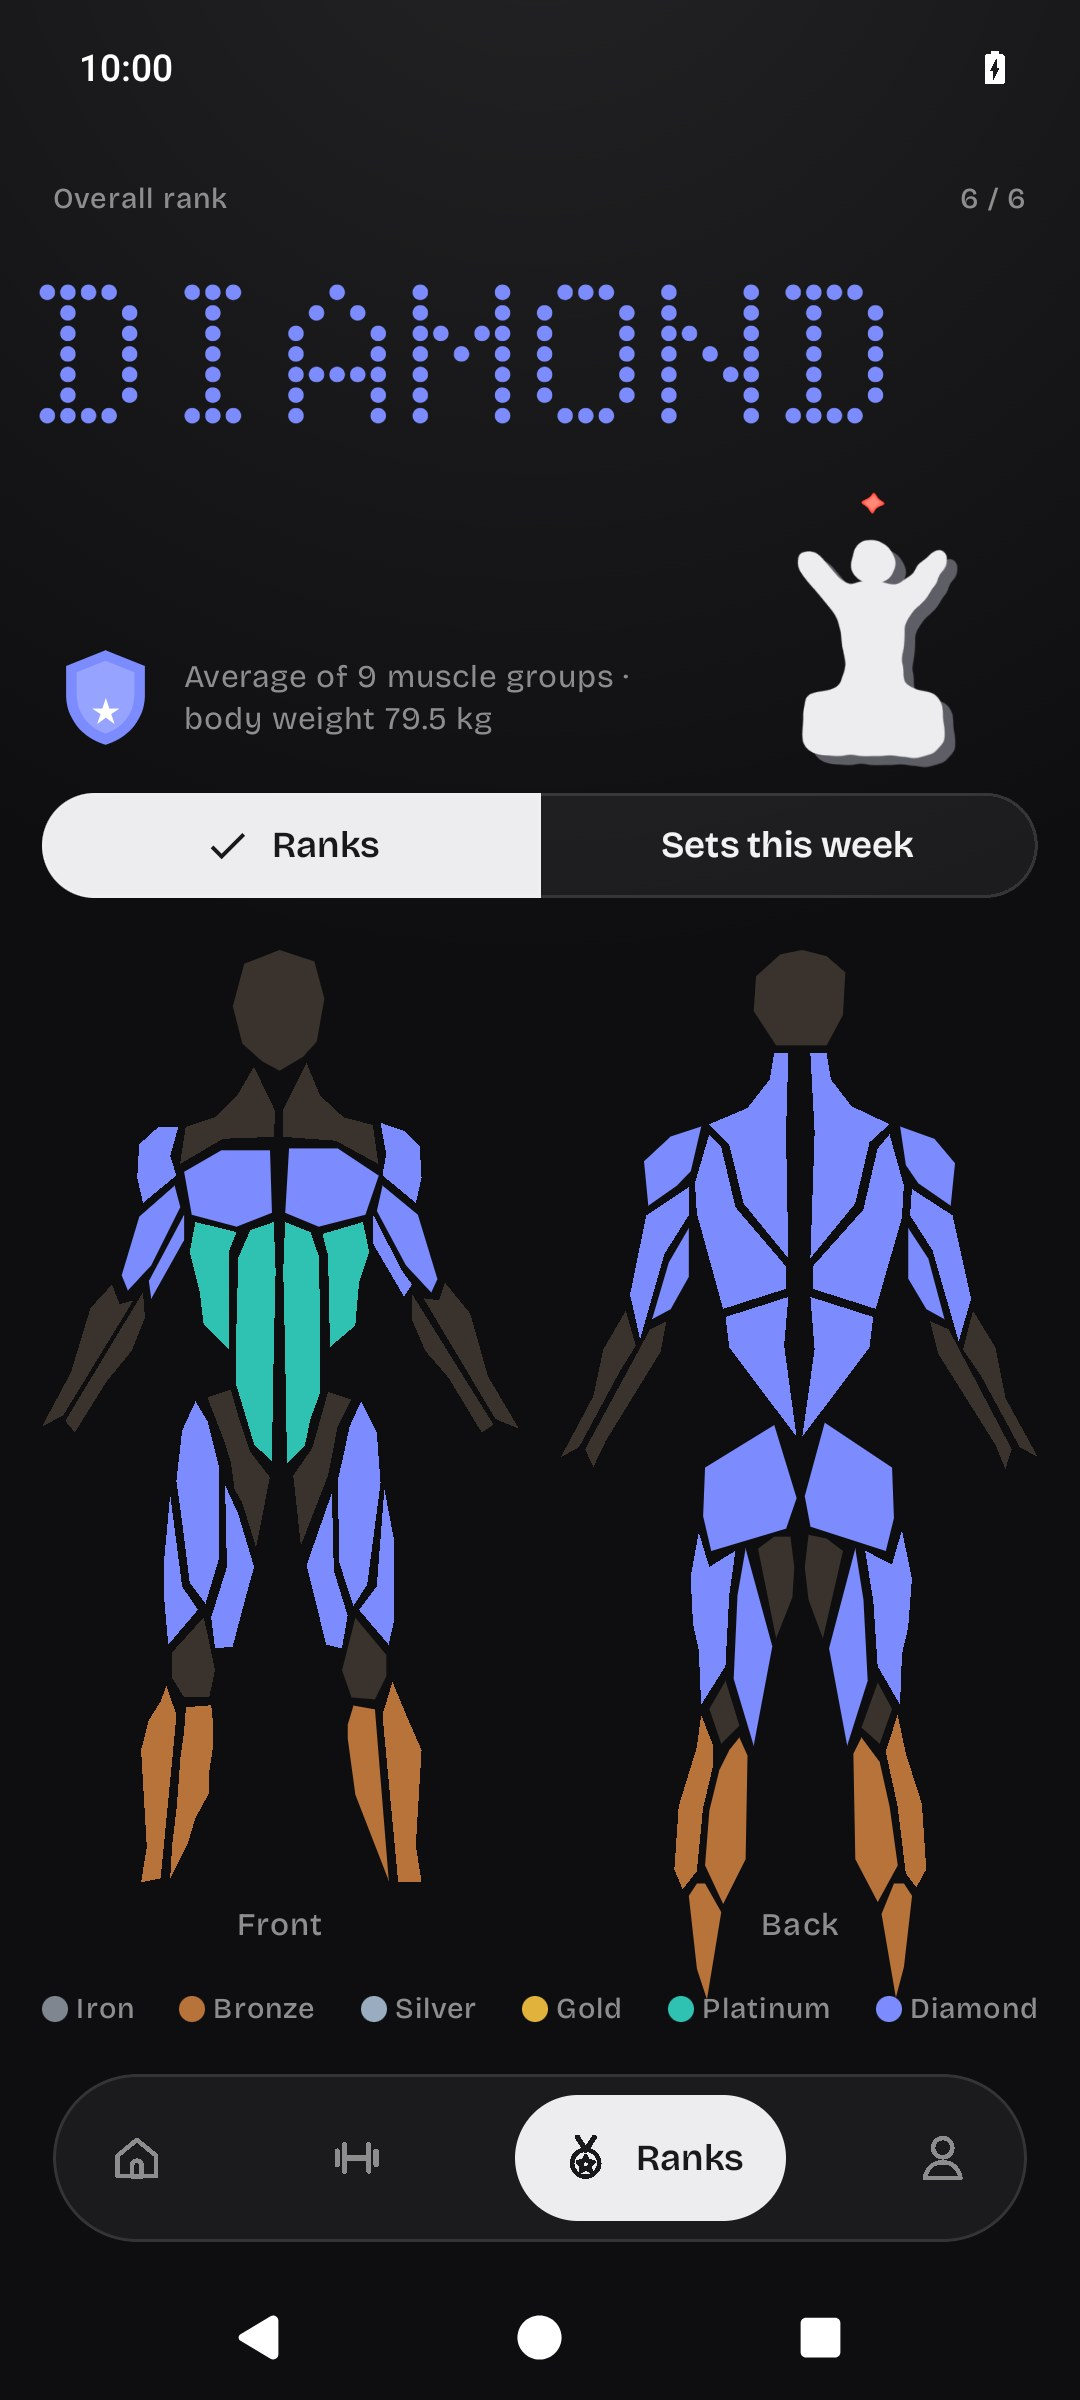
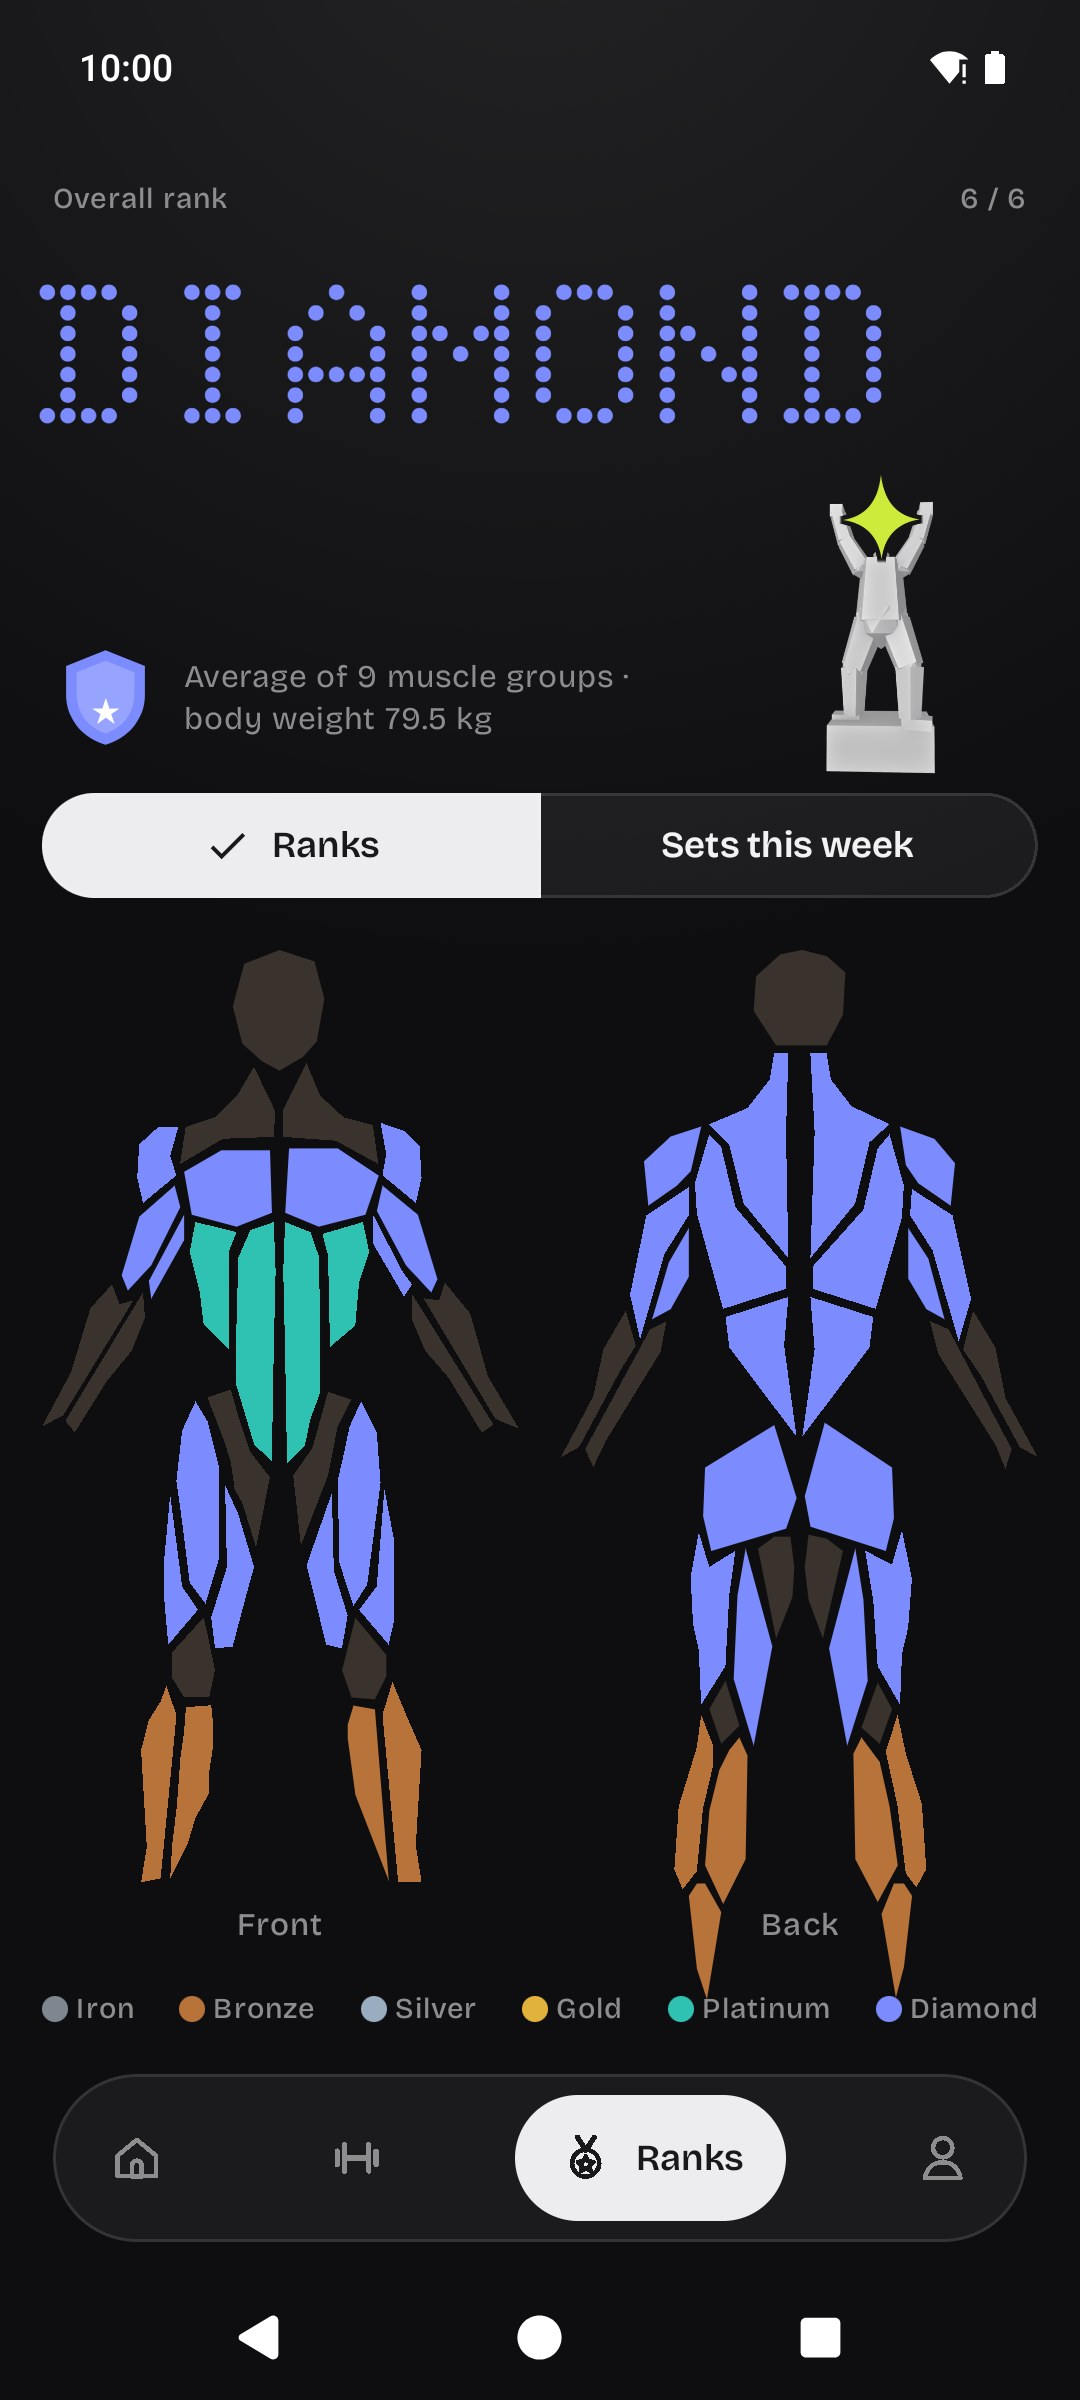
El muñeco: guía para rehacerlo; capturas de El Forzudo

diff --git a/identidad/muneco/README.md b/identidad/muneco/README.md
@@ -1,0 +1,74 @@
+# El muñeco de Fogón
+
+Un solo muñeco en bloques, hecho en Blender, que hace la acción de cada app. De aquí salen los personajes de las
+apps, los muñequitos del tutorial de El Forzudo y **los íconos de las cuatro apps**. Por qué es así y qué se
+descartó: `docs/IDENTIDAD.md` → "El muñeco".
+
+| Archivo | Qué es |
+|---------|--------|
+| `muneco.py` | El modelo y las poses (se corre dentro de Blender). |
+| `generar.py` | Corre Blender y escribe todo lo de las apps. |
+| `png/` | Los cuatro personajes armados, en grande. |
+
+Necesita Blender 5 (`blender --version`), Python 3 con Pillow y numpy. No hace falta abrir Blender: todo corre en
+segundo plano.
+
+## Rehacer todo
+
+Desde la raíz del repo:
+
+```
+python3 identidad/muneco/generar.py
+```
+
+Tarda unos 15 segundos y reescribe, para las cuatro apps:
+
+- `core/identidad/src/main/res/drawable-nodpi/personaje_<app>_cuerpo.webp`, `_cabeza.webp` y `personaje_<app>.webp`;
+- `apps/forzudo/src/main/res/drawable-nodpi/munieco_tut_<paso>_cuerpo.webp` y `_cabeza.webp`;
+- `apps/<app>/src/main/res/mipmap-*/ic_launcher_foreground.webp` y `ic_launcher_monochrome.webp` (el ícono);
+- `apps/<app>/fastlane/metadata/android/en-US/images/icon.png` (el ícono de la tienda);
+- `identidad/muneco/png/<personaje>.png`.
+
+Después: compilar, probar en el emulador (tutorial en Grafito y en Claro, el ícono en el cajón de apps), rehacer
+las capturas de la tienda que muestren al personaje (ver la `GUIA.md` de cada app) y publicar las apps.
+
+## Ver una pose sin tocar las apps
+
+```
+blender -b -P identidad/muneco/muneco.py -- <carpeta> la-cucha el-cajon
+```
+
+Deja en `<carpeta>` `<nombre>-luz.png` (el modelo con luz, para ver las caras), `<nombre>-cuerpo.png` y
+`<nombre>-cabeza.png`. Sin nombres, hace todos. Nombres: `el-forzudo`, `el-ahorrador`, `la-cucha`, `el-cajon`,
+`tut-hola`, `tut-anota`, `tut-racha`, `tut-rangos`, `tut-datos`. Así se arman las propuestas para Angel antes de
+cambiar nada en las apps.
+
+## Cambiar algo
+
+Todo está en `muneco.py`:
+
+- **Las proporciones** (igual para todos): `HUESOS` (largo y grosor al empezar y al terminar de cada hueso),
+  `HOMBRO`, `CADERA`, `CABEZA` (tamaño de la estrella) y `CARAS` (caras de cada prisma: 5).
+- **Una pose:** cada personaje es una función (`el_forzudo`, `la_cucha`…) que llama a `M.armar({...})` con hacia
+  dónde apunta cada hueso: `espalda`, `brazo_i`/`brazo_d`, `antebrazo_…`, `muslo_…`, `canilla_…` y `pie_…`, como
+  vectores (x a la derecha, y hacia el fondo, z arriba). `"adelante": {"d": 0.12}` acerca ese lado a la cámara.
+  **Nunca se agranda una pierna en el modelo:** lo que se vea más grande es por estar más cerca de la cámara.
+- **Los objetos** (barra, moneda, cuchara, gorro, disco, cuesta) van en la misma función, después de `armar`,
+  con las piezas facetadas `prisma`, `bloque`, `gema` y `disco`, ubicados desde `M.manos`, `M.pies` y `M.cabeza`.
+  `restar` hace huecos (la chispa calada de la moneda, el hueco del disco).
+- **La cámara:** al final de la parte "Escena" (`cam.data.lens` = 20 mm, cerca y un poco abajo).
+- **Una app nueva:** una función con su acción en `muneco.py` y su entrada en `ACCIONES` y `COLOR`; en
+  `generar.py`, en `NOMBRES`, `APP`, `COLOR` y `CABEZA_ICONO`; en la app, `@color/icono_fondo` y el personaje en
+  `core/identidad` (`CAPAS` en `Componentes.kt`, `CAPAS_…` en `Widget.kt`).
+
+En `generar.py`: los colores de la cabeza (`COLOR` en la app, `CABEZA_ICONO` en el ícono: la del Forzudo es oliva
+porque el lima no se ve sobre blanco), el fondo del ícono (`FONDO_ICONO`, blanco) y el tamaño en la zona segura
+(64 de 108 dp).
+
+## Si Blender no arranca
+
+El 25-10-2026 una actualización de Arch dejó `opensubdiv` y `usd` pidiendo `libcudart.so.13` sin instalar CUDA, y
+Blender no abría. Se arregló volviendo a las versiones anteriores de la caché de pacman (`opensubdiv`, `usd`,
+`blender` y `draco`). Si vuelve a pasar: ver qué librería falta (`blender --version`), buscar en
+`/var/cache/pacman/pkg/` la versión de antes y comprobar con `readelf -d` que no la pida, antes de proponerle a
+Angel el `pkexec pacman -U …`. No usar librerías bajadas de otros lados (PyPI y similares).

diff --git a/docs/IDENTIDAD.md b/docs/IDENTIDAD.md
@@ -95,7 +95,7 @@ Angel lo pidió el 25-10-2026, después de varias rondas de propuestas: **un sol
 - **Cómo se hace:** `identidad/muneco/muneco.py` arma el muñeco en Blender: cada hueso es un prisma de cinco caras con su largo y su grosor fijos, con una unión facetada; manos y pies son bloques. La pose solo dice hacia dónde apunta cada hueso, y `adelante` acerca un lado a la cámara. Los objetos también son facetados. Renderiza con luz (Workbench, para las caras) y las siluetas del cuerpo y de la cabeza. `identidad/muneco/generar.py` corre Blender, recorta los cuatro con el mismo cuadrado (misma escala), le abre un borde al cuerpo alrededor de la cabeza y escribe las capas y los íconos. Uso: `python3 identidad/muneco/generar.py` desde la raíz.
 - **Las acciones:** El Forzudo levanta la barra; El Ahorrador, como Sísifo, empuja cuesta arriba una moneda más grande que él; La Cucha corre con la cuchara de palo en alto y lleva un gorro de chef flotando encima de la estrella; El Cajón salta con un disco. El tutorial de El Forzudo usa el mismo muñeco: saluda, anota en su cuaderno, corre, sube al podio y lleva su caja al hombro.
 - **En la app:** dos capas, `personaje_<app>_cuerpo` (en grises: blanco lo que da a la luz) y `_cabeza` (y `munieco_tut_<paso>_…` en El Forzudo). `PersonajeFogon` tiñe el cuerpo con `caras(f.texto, f.fondo)`: lo iluminado queda en el color de las letras y lo que no da a la luz se acerca al fondo, así se ven los bloques en cualquier tema. La cabeza va con `tintaCabeza(f)`: el color de la app (`f.marca`), también en los temas neutros; si no se distingue del fondo, su versión para papel (`textoEnPapel`) o la tinta del tema. El widget (Glance solo tiñe plano) lo muestra en silueta.
-- **Para una app nueva:** agregar su acción en `muneco.py` (una función con la pose y sus objetos), su color en `generar.py` y su `icono_fondo`.
+- **Cambiarlo, verlo o agregar una app:** paso a paso en `identidad/muneco/README.md` (rehacer todo con `python3 identidad/muneco/generar.py`, ver una pose sola, qué tocar en `muneco.py` y qué hacer si Blender no arranca). Cada cambio del muñeco cambia también los íconos: después se prueban y se publican las cuatro apps.
 
 ## Dibujos de ejercicios: las láminas
 

diff --git a/apps/forzudo/GUIA.md b/apps/forzudo/GUIA.md
@@ -178,6 +178,7 @@ Se cambian en `herramientas/estandares.py` y se regeneran con el comando de la s
 - **Probar un tema sin tocar la pantalla:** escribir `shared_prefs/apariencia.xml` con `run-as` (`<string name="estilo">MARCA</string>`, `<int name="version" value="4" />`, y por tema `MARCA.FONDO`, `MARCA.TINTA_1`, `MARCA.TINTA_2` (int ARGB), `MARCA.transparencia`, `MARCA.adorno` (`LUZ` o `NADA`)). Sin `version` = 4, la app borra los ajustes de cada tema al abrir (la migración de Vidrio y puntos). Temas: `GRAFITO`, `MARCA`, `CLARO`, `CONTRASTE`.
 - **Al final, `logcat -b crash -d` no debe mostrar nada.**
 - **Datos de prueba sin usar los de nadie:** `node herramientas/datos-prueba.js src/main/assets/datos <salida.json>`, desde `apps/forzudo`, da un estado con unos 100 entrenos inventados. Se toma lo que está bajo `"estado"` (sin `active`) y se importa desde Perfil → Importar.
+- **Datos para las capturas:** los de `datos-prueba.js` terminan el 10-10-2026; para que la semana de hoy tenga entrenos, se corren todas las fechas (`AAAA-MM-DD`, y las de los ids `s-AAAA-MM-DD`) de a semanas enteras (14 días el 25-10-2026: así los lunes de `weekMarks` siguen siendo lunes) y se agrega `"nombre": "Sam"`. Capturas con el personaje: 1 Inicio en Grafito, 2 Inicio en Marca, 3 Rangos (rehechas el 25-10-2026 con el muñeco en bloques).
 - **Capturas limpias** (para F-Droid): con el modo demo de Android (`settings put global sysui_demo_allowed 1` y `am broadcast -a com.android.systemui.demo -e command clock -e hhmm 1000`), y `adb exec-out screencap -p`. Van en `fastlane/metadata/android/<idioma>/images/phoneScreenshots/` (`es` con la app en español, `en-US` en inglés) como JPEG (calidad 88). Los datos de prueba se pueden copiar directo en la versión de prueba: `run-as io.github.fogonapps.forzudo cp … files/datastore/estado.json`, y el idioma y el tutorial visto en `shared_prefs/ui.xml` (`idioma`, `tutorial_visto`).
 
 ## Probar en el teléfono
